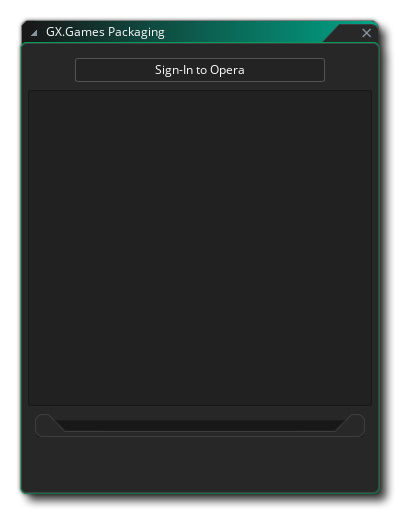
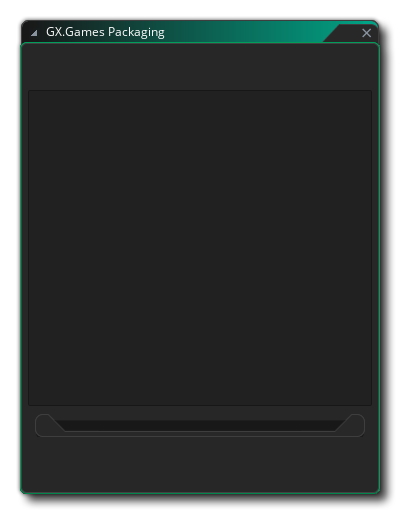
docs(feature): fixes to GX.games compiling and preferences page YoYoGames/GameMaker-Bugs#7454
* Listed "Zip File" on preferences page
* Corrected the order of steps for the GX.games target on the Compiling page
* Updated "GX.games packaging" screenshot

diff --git a/Manual/contents/Introduction/Compiling.htm b/Manual/contents/Introduction/Compiling.htm
@@ -88,17 +88,19 @@
   <h3>Compiler Optimisations</h3>
   <p>The compiler performs optimisations on your game&#39;s code. See <a data-xref="{title}" href="../Settings/Runner_Details/Compiler_Optimisations.htm">Compiler Optimisations</a>.</p>
   <h3>How Different Targets Build</h3>
-  <p>Each target option saves to a platform specific format, listed below:</p>
+  <p>Each target option saves to a platform-specific format, listed below:</p>
   <ul class="colour">
-    <li><strong>GX.games</strong> - When compiling for the &quot;GX.games&quot; target, you will see the &quot;GX.games Packaging&quot; window which will first ask you to sign in using your Opera account:<img align="" class="center" src="../assets/Images/Introduction/Compiling/gx_packaging_1.png" />You won&#39;t need to sign in here if you&#39;ve already signed into <span data-keyref="GameMaker Name">GameMaker</span> using <a href="../Setting_Up_And_Version_Information/Licencing_Information.htm">Opera Single Sign-In</a>.<br />
+    <li><strong>GX.games</strong> - When compiling for the &quot;GX.games&quot; target, you will first be asked the packaging option to use: <br />
+      <img class="center" height="256" src="../assets/Images/Introduction/QS_GX.Games_Compile_Options.png" style="cursor: nesw-resize;" width="430" /><br />
+      Tick the <strong>Remember Packaging Option?</strong> checkbox here to use the same setting and not show this window again on subsequent builds.<br />
       <br />
-      Next you will be asked the packaging option to use: <br />
-      <img class="center" height="256" src="../assets/Images/Introduction/QS_GX.Games_Compile_Options.png" style="cursor: nesw-resize;" width="430" />You&#39;ll be asked to sign in if you select any of the upload options, though this isn&#39;t needed if you save locally as a ZIP.<br />
+      Next you&#39;ll see the &quot;GX.games Packaging&quot; window:<br />
+      <img align="" class="center" src="../assets/Images/Introduction/Compiling/gx_packaging_1.png" />If you chose to <strong>Save locally as a ZIP</strong>, <span data-keyref="GameMaker Name">GameMaker</span> will immediately start compiling your game and show any output here. After the game is compiled you&#39;re prompted for a save location.<br />
       <br />
-      After you have signed in, <span data-keyref="GameMaker Name">GameMaker</span> will start compiling your game and proceed to upload it to GX.games. You can then click on &quot;Edit Game on Opera&quot; to edit it on GX.create and publish it:<br />
+      If you selected any of the <strong>Upload As...</strong> options, <span data-keyref="GameMaker Name">GameMaker</span> will attempt to sign you in using <a href="../Setting_Up_And_Version_Information/Licencing_Information.htm">Opera Single Sign-In</a>. After you have signed in, <span data-keyref="GameMaker Name">GameMaker</span> will start compiling your game and proceed to upload it to GX.games. You can then click on &quot;Edit Game on Opera&quot; to edit it on GX.create and publish it:<br />
       <img class="center" src="../assets/Images/Introduction/Compiling/gx_game_compiled.png" />Please refer to <a href="https://help.gamemaker.io/hc/en-us/articles/4407217145105-How-to-Upload-Your-Games-to-GX-games">this page</a> to learn more about the GX.games upload process, and <a href="https://help.gamemaker.io/hc/en-us/articles/4625548722193-Setting-Up-For-GX-games">this page</a> for setting up the various exports, such as <a href="../Settings/YoYo_Compiler.htm">YYC</a> and Mobile.
     </li>
-    <li><strong>Windows </strong>- Compiling for the general Windows OS will first request that you choose between creating an <em>Installer </em>or a <em>Zip </em>package, where the installer will be a single executable that will install your game, and the Zip file will be a single <span class="inline">*.zip</span> format compressed file with all your game files stored within (the files will need extracted for the game to run). <img alt="Windows Compile Options" class="center" src="../assets/Images/Introduction/QS_Windows_Compile_Options.png" />If you check the box marked <strong>Remember Packaging Option</strong> then <span data-keyref="GameMaker Name">GameMaker</span> will remember the choice for all future compiles (this can be reset or changed from the <a href="../Setting_Up_And_Version_Information/Platform_Preferences/Windows.htm">Windows Preferences</a>). You can find out more from the <a href="https://help.gamemaker.io/hc/en-us/sections/207157668">YoYo Games Help Center</a>.<br />
+    <li><strong>Windows</strong> - Compiling for the general Windows OS will first request that you choose between creating an <em>Installer </em>or a <em>Zip </em>package, where the installer will be a single executable that will install your game, and the Zip file will be a single <span class="inline">*.zip</span> format compressed file with all your game files stored within (the files will need extracted for the game to run). <img alt="Windows Compile Options" class="center" src="../assets/Images/Introduction/QS_Windows_Compile_Options.png" />If you check the box marked <strong>Remember Packaging Option</strong> then <span data-keyref="GameMaker Name">GameMaker</span> will remember the choice for all future compiles (this can be reset or changed from the <a href="../Setting_Up_And_Version_Information/Platform_Preferences/Windows.htm">Windows Preferences</a>). You can find out more from the <a href="https://help.gamemaker.io/hc/en-us/sections/207157668">YoYo Games Help Center</a>.<br />
       <br />
       The Windows target only compiles 64-bit executables.
     </li>

diff --git a/Manual/contents/Setting_Up_And_Version_Information/Platform_Preferences/GX_Games_Preferences.htm b/Manual/contents/Setting_Up_And_Version_Information/Platform_Preferences/GX_Games_Preferences.htm
@@ -23,7 +23,7 @@
     <li><strong>Default Web Server Port</strong>: This lets you change the default port for the GX.games web server. Default value is 51264.</li>
     <li><strong>Default Web Server Address</strong>: Here you can change the default web server address for the GX.games web server. Default value is 127.0.0.1.</li>
     <li><strong>Default Web Server Allowed IPs</strong>: Here you can add in any allowed IPs for the web server and they will be set as default for all devices added through the Target Manager.</li>
-    <li><strong>Default packaging type</strong>: This is the package type to create by default: <strong>Game</strong>, <strong>Live Wallpaper </strong>or <strong>Game Strip</strong>. The default <strong>Show Dialog</strong> displays a dialog before every build which lets you choose between the types.</li>
+    <li><strong>Default packaging type</strong>: This is the package type to create by default: <strong>Game</strong>, <strong>Live Wallpaper</strong>, <strong>Game Strip</strong> or <strong>Zip File</strong>. The default <strong>Show Dialog</strong> displays a dialog before every build which lets you choose between the types.</li>
   </ul>
   <p> </p>
   <p> </p>
